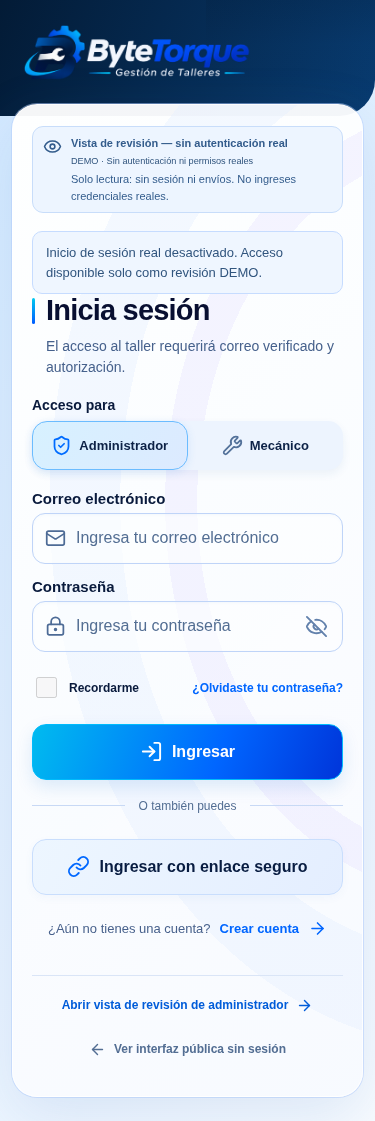
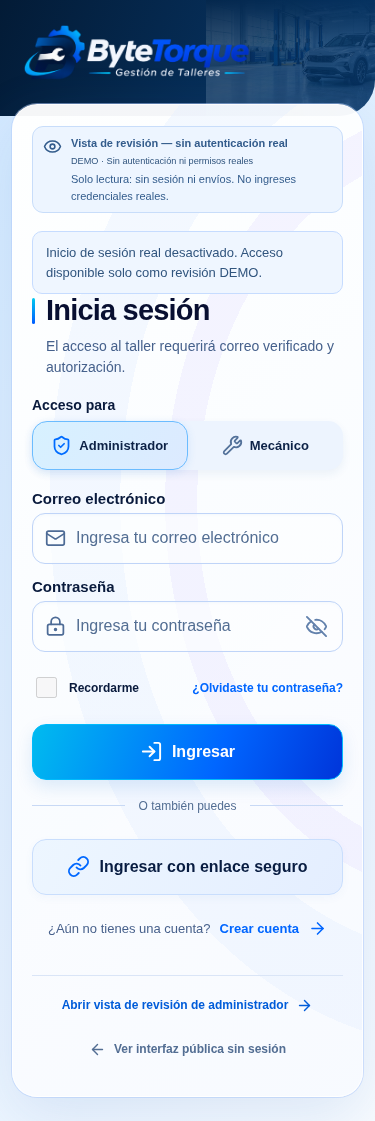
docs(auth): cerrar R1 con 186 pruebas y verificación del frontend final publicado

Changed region(s): [[0.528, 0.0, 0.9387, 0.0937], [0.9973, 0.0312, 1.0, 0.0624]]

diff --git a/docs/checkpoints/CHECKPOINT_BT_AUTH_01B_R1_20261114.md b/docs/checkpoints/CHECKPOINT_BT_AUTH_01B_R1_20261114.md
@@ -41,12 +41,12 @@ No se alteraron SQL, migraciones, RLS, Supabase Auth/configuración, Edge/onboar
 | Comprobación | Resultado y alcance |
 | --- | --- |
 | `npm run typecheck` | PASS |
-| `npm test` | **185/185 PASS, 25 archivos**; 146 anteriores intactas +39 nuevas. SDK/stubs, no cuentas reales |
+| `npm test` | **186/186 PASS, 25 archivos**; 146 anteriores intactas +40 nuevas. SDK/stubs, no cuentas reales |
 | `npm run build` | PASS Vite/PWA, fronteras de módulos públicos, exclusión de fixtures, hashes/transparencia y recursos de marca protegidos |
 | `verify-auth-r1-env.mjs` | 4/4 builds negativos rechazados, valores sintéticos no impresos |
 | `verify-auth-r1-ui.cjs` | PASS SDK oficial + HTTP interceptado, 1650/1440/768/390/375: login, cinco paneles vacíos, recarga, URL ajena, DEMO separado, revocación y logout |
 | Build **local** con flag `true` | PASS sobre `/tmp/bt-auth-enabled-dist`, clave sintética y servidor loopback 5178; mismos recorridos y negativas. No se publicó ni se contactó Supabase |
-| Negativas de navegador | Credenciales inválidas, ausencia/desactivación de membresía, correo sin confirmar, mecánico, recepción, varios talleres y pérdida/reconexión de red: PASS con respuestas simuladas |
+| Negativas de navegador | Credenciales inválidas, ausencia/desactivación de membresía, correo sin confirmar, mecánico, recepción, varios talleres, pérdida/reconexión de red y salir/volver durante login pendiente: PASS con respuestas simuladas |
 | `verify-auth-ui.cjs` | PASS siete pantallas, navegación inicial/back/forward/refresh/PWA en Chromium y revisión, cinco anchos; cero escrituras de red/Storage/cookies |
 | `verify-official-ui.cjs` | PASS cinco paneles y cinco anchos, sin registros ficticios, escrituras ni persistencia |
 | `verify-brand-ui.cjs`, `verify-brand-02-ui.cjs` | PASS cinco anchos, logo R2/transparencia sin cambios |
@@ -59,6 +59,8 @@ No se alteraron SQL, migraciones, RLS, Supabase Auth/configuración, Edge/onboar
 | Dispositivos físicos | Safari/iPhone/PWA instalada real **pendiente**. Emulación Chromium no certifica Safari físico |
 | CI remoto | Workflow ampliado para repetir mocks/guardas y subir capturas. Consulta `gh run list` denegada (`Forbidden`); **no se declara CI remoto PASS** |
 
+Se reprodujo además una carga indefinida al salir/volver durante un login pendiente; se añadió regresión unitaria y HTTP mock, y se resolvió mediante una nueva validación del servidor al remonte, sin restaurar la respuesta descartada.
+
 No se cuentan las primeras ejecuciones interrumpidas por HMR como PASS: los recorridos se repitieron sobre código estable. No se modificaron módulos de negocio para superar pruebas.
 
 ## Commits
@@ -68,13 +70,15 @@ No se cuentan las primeras ejecuciones interrumpidas por HMR como PASS: los reco
 - `cc8163f` — build local activado aislado, cinco paneles y ejecución reproducible en workflow existente.
 - `07ec9af` — checkpoint inicial, capturas/resultados, roadmap y guía de configuración.
 - `9d09404` — clasificación explícita de sesión ausente/refresh revocado como sesión vencida; 185 pruebas y build repetidos PASS.
+- `0cc0f8f` — primera confirmación de publicación con Auth apagado.
+- `d8ec46c` — regreso al acceso durante login pendiente: nueva validación tras remonte, 186 pruebas y recorridos SDK HTTP mock PASS.
 - El commit final de evidencia publicada se entrega al Director; no cambia el frontend.
 
 ## Render
 
-**PUBLICADO y verificado** en https://biomotors-taller-demo.onrender.com, código `9d09404`, con **Auth apagado**. No se configuraron claves ni se cambió Environment del servicio; la ausencia del nuevo flag conserva el valor OFF.
+**PUBLICADO y verificado** en https://biomotors-taller-demo.onrender.com, código `d8ec46c`, con **Auth apagado**. No se configuraron claves ni se cambió Environment del servicio; la ausencia del nuevo flag conserva el valor OFF.
 
-- HTTPS: `index.html`, `index-C5zLO445.js`, `index-CS2vKy7X.css`, `supabaseGateway-CZmBU0E0.js`, manifest y service worker **idénticos byte por byte** al build final. [Hashes y fecha de comprobación](../screenshots/BT_AUTH_01B_R1/render-assets.json).
+- HTTPS: `index.html`, `index-D96w8na3.js`, `index-CS2vKy7X.css`, `supabaseGateway-CmEdwRDk.js`, manifest y service worker **idénticos byte por byte** al build final. [Hashes y fecha de comprobación](../screenshots/BT_AUTH_01B_R1/render-assets.json).
 - Navegador publicado 1650/1440/768/390/375: raíz muestra login, formulario inactivo y aviso preciso de flag apagado; sin desborde, **cero tráfico externo y cero escrituras/almacenamiento**. [Resultado](../screenshots/BT_AUTH_01B_R1/render-runtime.json).
 - Siete pantallas, revisión, navegación inicial/back/forward/refresh/PWA en Chromium, cinco anchos sobre Render: PASS con `verify-auth-ui.cjs`. [Reporte](../screenshots/BT_AUTH_01B_R1/render-access-results.json).
 - Capturas reales del sitio publicado: [escritorio](../screenshots/BT_AUTH_01B_R1/render-login-1650.png) · [móvil](../screenshots/BT_AUTH_01B_R1/render-login-390.png). Las imágenes de integración activada están separadas y rotuladas `mock`; no se publicó el flag activado.

diff --git a/roadmap.md b/roadmap.md
@@ -698,10 +698,10 @@ No se inició BT-AUTH-01B, BT-CP02-D ni backend.
 - [x] Restauración y eventos de sesión; revalidación al foco/visibilidad/reconexión; bloqueo inmediato del contexto durante verificación, offline/revocación/logout; protección frente a respuestas tardías. Logout local del SDK con aviso si no se confirma revocación en servidor.
 - [x] Taller múltiple con selección explícita y nueva validación. Owner/admin: cinco paneles vacíos. Mechanic: espacio técnico vacío. Reception: restringido. Selector/metadata/URL nunca conceden permisos.
 - [x] Revisión DEMO separada y read-only; siete pantallas premium y marca conservadas. Registro, recuperación, enlaces seguros, correo y operaciones de negocio deshabilitados.
-- [x] TypeScript, **185/185 Vitest** (146 anteriores +39), build/PWA/brand; pruebas de navegador con SDK real y HTTP **simulado**, cinco anchos (1650/1440/768/390/375), negativas de sesión/membresía/roles y build de claves prohibidas.
+- [x] TypeScript, **186/186 Vitest** (146 anteriores +40), build/PWA/brand; pruebas de navegador con SDK real y HTTP **simulado**, cinco anchos (1650/1440/768/390/375), negativas de sesión/membresía/roles y build de claves prohibidas.
 - [x] Regresiones locales de paneles, acceso, marca, BT-REG-02, flujo B/C/D, QA-02, cotización y A4. Carrera ya documentada del test Enter/Escape resuelta esperando el atributo antes de comprobarlo, sin cambios funcionales del flujo.
 - [ ] **Activación pública y E2E Auth/RLS real pendientes**: cuentas controladas del Director, revisión de sesiones/refresh/revocación real y Safari/iPhone/PWA físico. El PASS A/B anterior no sustituye esta validación.
-- [x] Render existente publicado y verificado: frontend `9d09404`, seis archivos idénticos al build, login apagado y cero tráfico externo/Storage en cinco anchos; siete pantallas/navegación publicadas PASS.
+- [x] Render existente publicado y verificado: frontend `d8ec46c`, seis archivos idénticos al build, login apagado y cero tráfico externo/Storage en cinco anchos; siete pantallas/navegación publicadas PASS.
 - [ ] CI remoto por confirmar; consulta de Actions denegada desde esta sesión. Estado y evidencias de Render en el [checkpoint R1](docs/checkpoints/CHECKPOINT_BT_AUTH_01B_R1_20261114.md).
 
 [Variables y procedimiento de Render](docs/BT_AUTH_01B_R1_CONFIGURACION_RENDER.md). No se inicia R2, recuperación/correo, invitaciones ni backend operativo.
